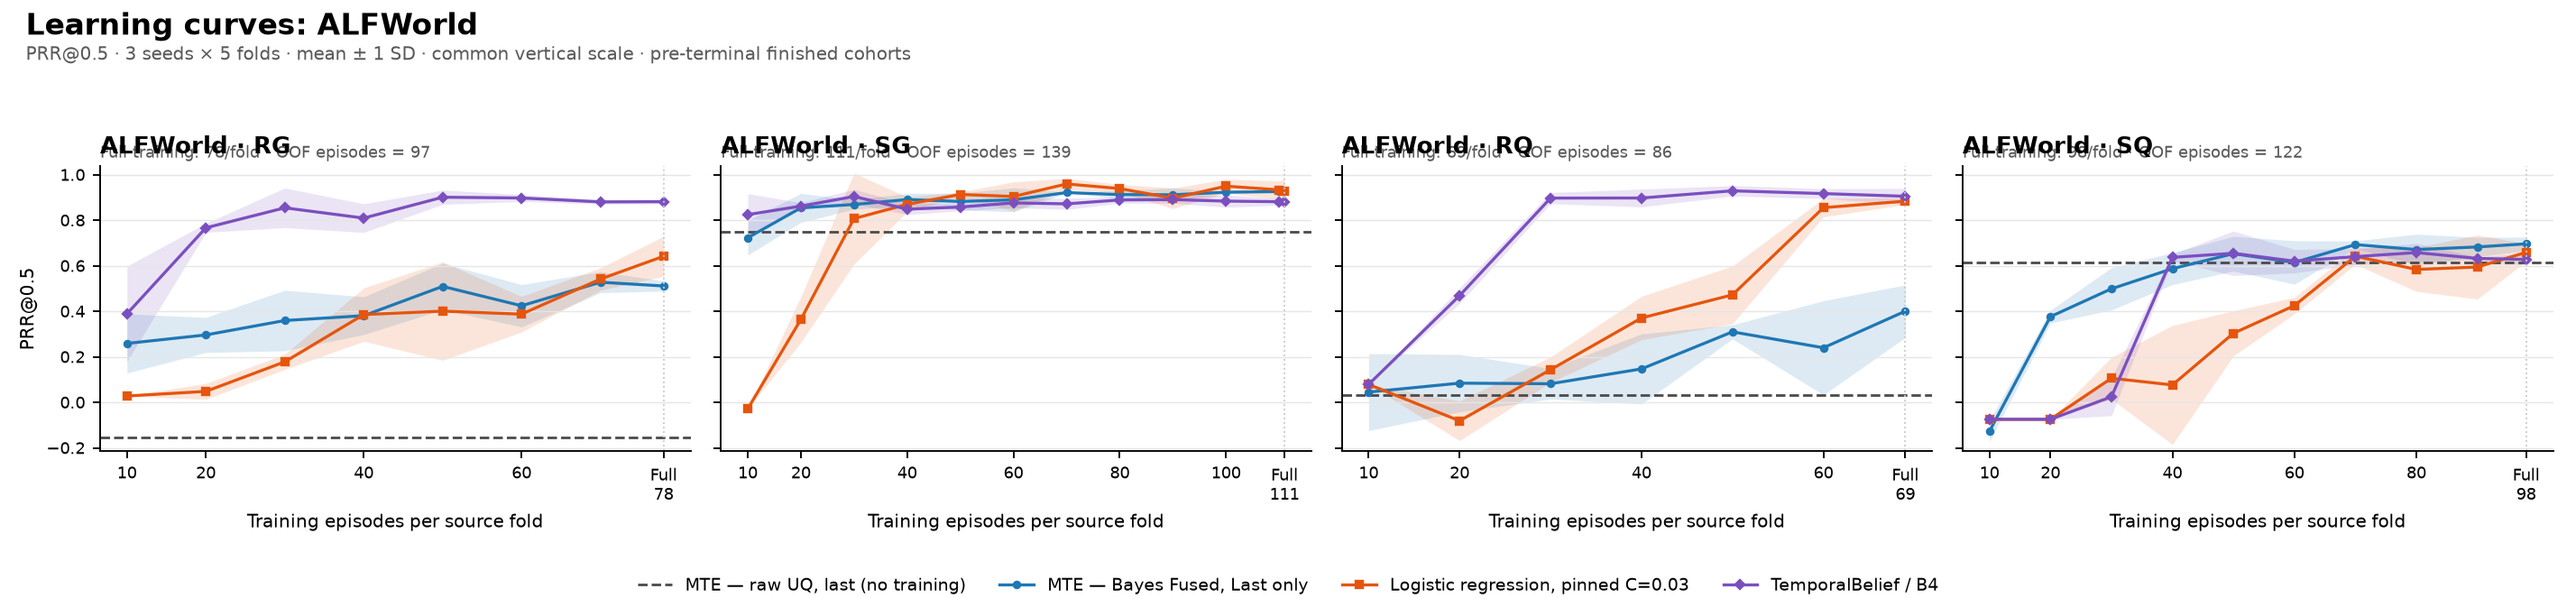
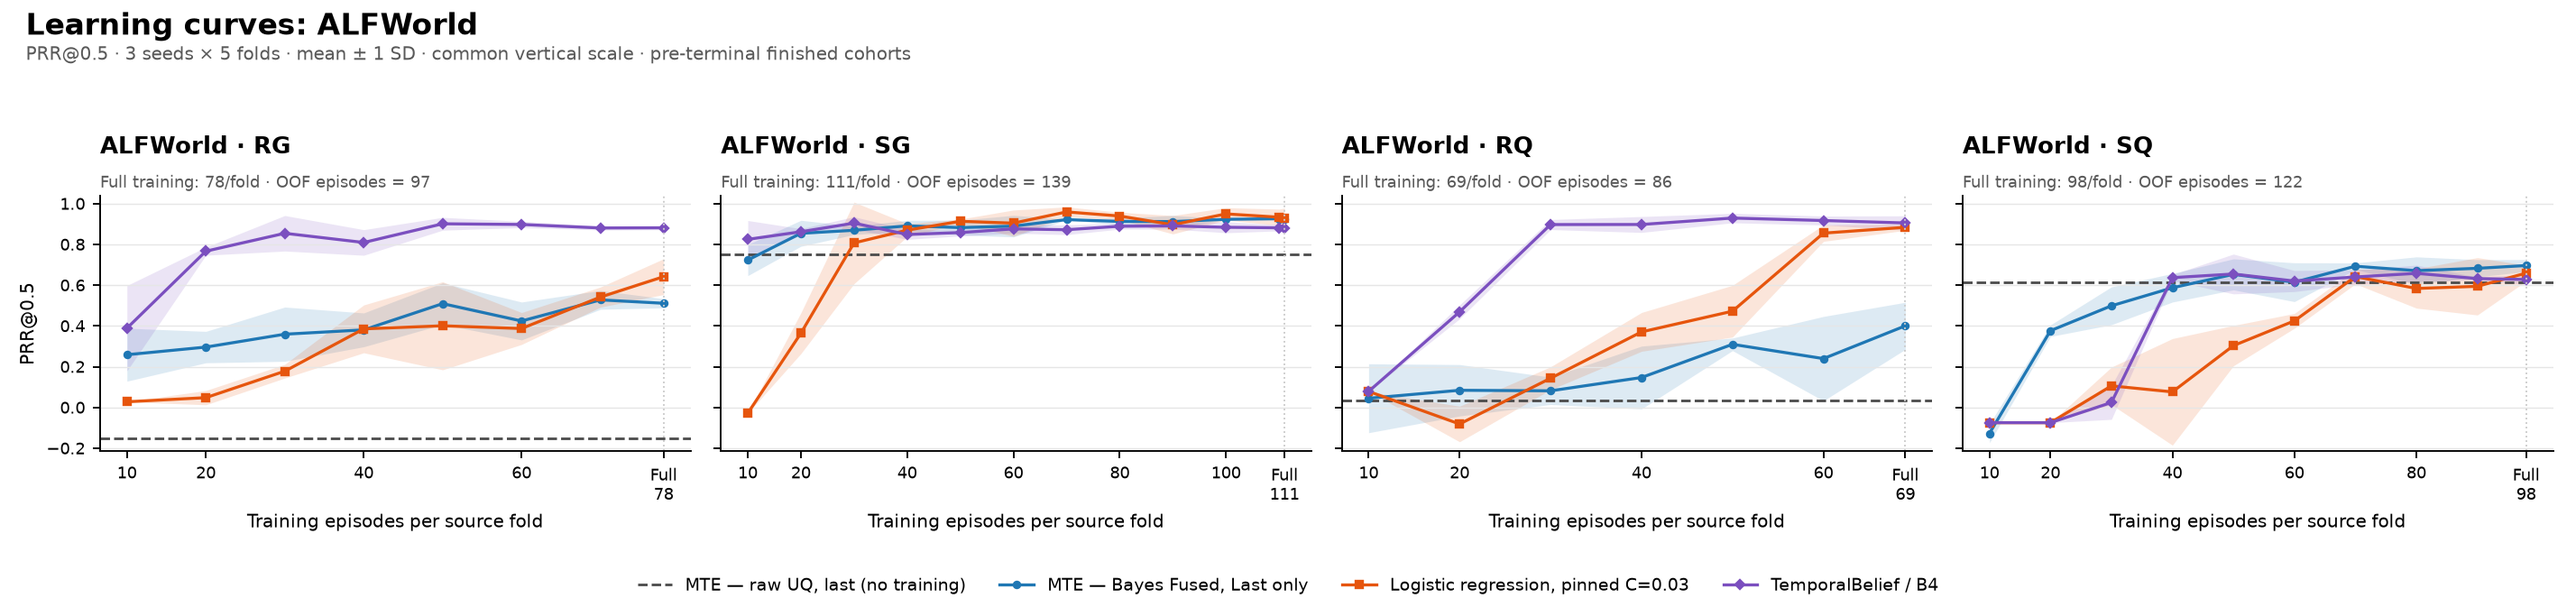
learning curves: panel header layout
Claude-Session: https://claude.ai/code/session_01S5ptZyuozwPyVWorSYMRwu

Changed region(s): [[0.0, 0.2413, 0.9972, 0.724]]

diff --git a/alfworld_uq/experiments/learning_curves.py b/alfworld_uq/experiments/learning_curves.py
@@ -121,8 +121,9 @@ def plot(results: dict, out: Path) -> None:
             ax.plot(grid, m, color=sty["color"], ls=sty["ls"], marker=sty["marker"], ms=3, lw=1.4, label=label)
             ax.fill_between(grid, m - s, m + s, color=sty["color"], alpha=0.15, lw=0)
             lo, hi = min(lo, np.nanmin(m - s)), max(hi, np.nanmax(m + s))
-        ax.set_title(f"ALFWorld · {key}", loc="left", fontsize=11, fontweight="bold")
-        ax.text(0, 1.03, f"Full training: {r['full']}/fold · OOF episodes = {r['n_episodes']}", transform=ax.transAxes, fontsize=7.5, color="0.35")
+        ax.set_title(f"ALFWorld · {key}", loc="left", fontsize=11, fontweight="bold", pad=20)
+        ax.annotate(f"Full training: {r['full']}/fold · OOF episodes = {r['n_episodes']}", xy=(0, 1), xycoords="axes fraction",
+                    xytext=(0, 4), textcoords="offset points", fontsize=7.5, color="0.35")
         ax.set_xlabel("Training episodes per source fold", fontsize=8.5)
         ticks = [g for g in grid[:-1] if g % 20 == 0 or g == grid[0]] + [grid[-1]]
         ax.set_xticks(ticks); ax.set_xticklabels([str(t) if t != grid[-1] else f"Full\n{t}" for t in ticks], fontsize=7.5)
